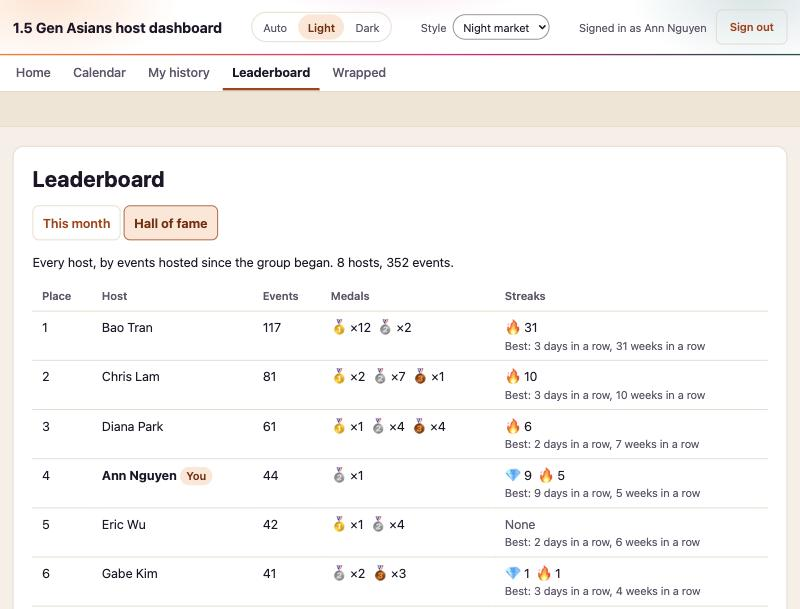
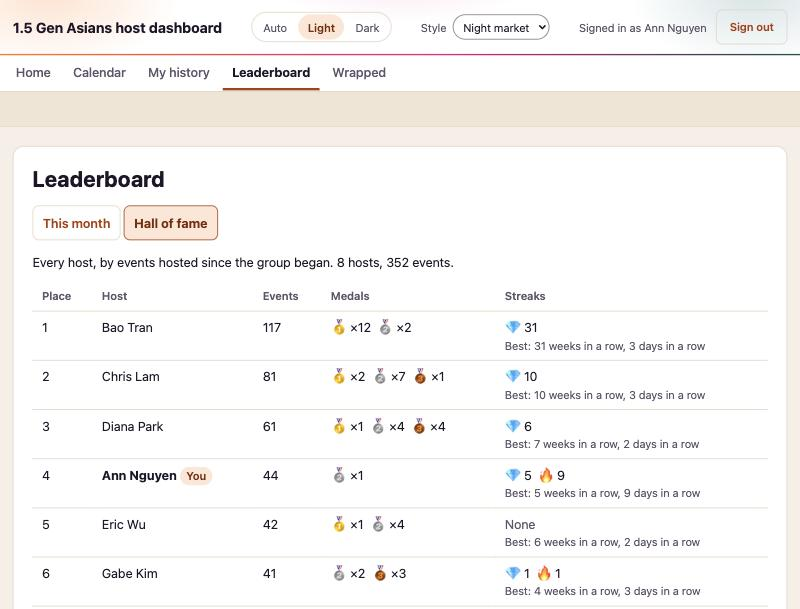
Leaderboard: 💎 weekly, 🔥 daily streaks; medals never slow or fail the page
- Hai's decision: the weekly streak is the prestige badge (💎) and comes
  first; the daily streak is 🔥. Design note, copy, order and tests updated.
- Awarding waits at most 2 s (the first read backfills every past month);
  past that it finishes in the background under its lock. A medal read
  failure renders the standings without medals and says so.

diff --git a/src/web/host/leaderboardPage.ts b/src/web/host/leaderboardPage.ts
@@ -60,26 +60,30 @@ export function medalBadge(place: MedalPlace, month?: string): SafeHtml {
   return emoji(MEDAL_ICON[place], label);
 }
 
-/** 💎 and 🔥 with counts, current streaks only; the best beside each. */
+/** Icons per Hai: weekly is the prestige streak (💎), daily is being on fire (🔥). */
+export const WEEKLY_STREAK_ICON = '💎';
+export const DAILY_STREAK_ICON = '🔥';
+
+/**
+ * Current streaks with their counts, weekly first (the more prestigious);
+ * a broken streak is left out.
+ */
 export function streakBadges(streaks: HostStreaks): SafeHtml {
   const { daily, weekly } = streaks;
   const parts: SafeHtml[] = [];
-  if (daily.current > 0) {
+  if (weekly.current > 0) {
+    const label = `Weekly hosting streak: ${plural(weekly.current, 'week')}`;
     parts.push(
       html`<span class="streak"
-        >${emoji('💎', `Daily hosting streak: ${plural(daily.current, 'day')}`)}
-        ${daily.current}</span
+        >${emoji(WEEKLY_STREAK_ICON, label)} ${weekly.current}</span
       >`,
     );
   }
-  if (weekly.current > 0) {
+  if (daily.current > 0) {
+    const label = `Daily hosting streak: ${plural(daily.current, 'day')}`;
     parts.push(
       html`<span class="streak"
-        >${emoji(
-          '🔥',
-          `Weekly hosting streak: ${plural(weekly.current, 'week')}`,
-        )}
-        ${weekly.current}</span
+        >${emoji(DAILY_STREAK_ICON, label)} ${daily.current}</span
       >`,
     );
   }
@@ -89,9 +93,9 @@ export function streakBadges(streaks: HostStreaks): SafeHtml {
 }
 
 function bestStreaks(streaks: HostStreaks): string {
-  return `Best: ${plural(streaks.daily.best, 'day')} in a row, ${plural(
-    streaks.weekly.best,
-    'week',
+  return `Best: ${plural(streaks.weekly.best, 'week')} in a row, ${plural(
+    streaks.daily.best,
+    'day',
   )} in a row`;
 }
 
@@ -152,6 +156,14 @@ function monthNav(month: string, first: string, current: string): SafeHtml {
   </nav>`;
 }
 
+function medalsNote(data: Ready): SafeHtml | '' {
+  return data.medalsUnavailable
+    ? html`<p class="note attn">
+        Medals cannot be loaded right now; the standings are complete.
+      </p>`
+    : '';
+}
+
 function updatedLine(data: Ready): SafeHtml {
   return data.updatedAt
     ? html`<p class="muted">
@@ -188,15 +200,17 @@ function monthBody(
   );
   const status = awarded
     ? html`<p>Final standings. Medals went to the top three places.</p>`
-    : month === current
-      ? html`<p>
-          Standings so far. Medals go to the top three places once the month is
-          over.
-        </p>`
-      : html`<p>
-          The month is over; medals are awarded a couple of days after it ends,
-          once late changes on Meetup are in.
-        </p>`;
+    : data.medalsUnavailable
+      ? html`<p>Standings for ${monthName(month)}.</p>`
+      : month === current
+        ? html`<p>
+            Standings so far. Medals go to the top three places once the month
+            is over.
+          </p>`
+        : html`<p>
+            The month is over; medals are awarded a couple of days after it
+            ends, once late changes on Meetup are in.
+          </p>`;
   const rows = standings.map((s) => {
     const medal = medalOf.get(s.memberId);
     const hostStreaks = streaks(s.memberId);
@@ -214,7 +228,8 @@ function monthBody(
   });
   return html`<div class="card">
     <h1>Leaderboard</h1>
-    ${viewNav('month', month)} ${monthNav(month, first, current)} ${status}
+    ${viewNav('month', month)} ${monthNav(month, first, current)}
+    ${medalsNote(data)} ${status}
     ${
       standings.length === 0
         ? html`<p class="muted">
@@ -246,9 +261,10 @@ function medalCell(awarded: boolean, content: SafeHtml | ''): SafeHtml | '' {
 
 function streakNote(): SafeHtml {
   return html`<p class="muted">
-    ${emoji('💎', 'Daily streak')} counts days in a row with a hosted event;
-    ${emoji('🔥', 'Weekly streak')} counts weeks in a row (Monday to Sunday). A
-    streak keeps going until a whole day or week passes without one.
+    ${emoji(WEEKLY_STREAK_ICON, 'Weekly streak')} counts weeks in a row (Monday
+    to Sunday) with a hosted event; ${emoji(DAILY_STREAK_ICON, 'Daily streak')}
+    counts days in a row. A streak keeps going until a whole week or day passes
+    without one.
   </p>`;
 }
 
@@ -299,7 +315,7 @@ function hallOfFameBody(
   });
   return html`<div class="card">
     <h1>Leaderboard</h1>
-    ${viewNav('all', data.today.slice(0, 7))}
+    ${viewNav('all', data.today.slice(0, 7))} ${medalsNote(data)}
     <p>
       Every host, by events hosted since the group began.
       ${`${plural(standings.length, 'host')}, ${plural(data.events.length, 'event')}.`}

diff --git a/src/lib/leaderboard/leaderboard.ts b/src/lib/leaderboard/leaderboard.ts
@@ -26,6 +26,49 @@ export interface LeaderboardDeps {
     lastFinishedRun(): Promise<SnapshotRun | undefined>;
   }>;
   now: () => Date;
+  /** Tests: how long a read waits for awarding (AWARD_BUDGET_MS). */
+  awardBudgetMs?: number;
+}
+
+/**
+ * The longest a page read waits for awarding (the first read backfills
+ * every past month). Past it the award finishes in the background, under
+ * its lock, and this read shows the medals stored so far.
+ */
+export const AWARD_BUDGET_MS = 2000;
+
+/** The awarded months; undefined (logged) when they cannot be read. */
+async function awardedOrNone(
+  store: LeaderboardStore,
+): Promise<Set<string> | undefined> {
+  try {
+    return await store.awardedMonths();
+  } catch (error: unknown) {
+    // Medals are extra: the page shows the standings without them.
+    logger.warn(
+      `Medal months read failed: ${error instanceof Error ? error.name : 'Error'}`,
+    );
+    return undefined;
+  }
+}
+
+/** Awards, waiting at most `budgetMs`; never throws. */
+async function awardWithin(
+  store: LeaderboardStore,
+  months: { month: string; medals: Medal[] }[],
+  budgetMs: number,
+): Promise<void> {
+  const award = store.award(months).catch((error: unknown) => {
+    logger.warn(
+      `Medal award failed: ${error instanceof Error ? error.name : 'Error'}`,
+    );
+  });
+  let timer: NodeJS.Timeout | undefined;
+  const late = new Promise<void>((resolve) => {
+    timer = setTimeout(resolve, budgetMs);
+  });
+  await Promise.race([award, late]);
+  clearTimeout(timer);
 }
 
 export type LeaderboardData =
@@ -39,13 +82,17 @@ export type LeaderboardData =
       names: Map<string, string>;
       medals: Medal[];
       awarded: Set<string>;
+      /** Medals could not be read: the page says so and shows none. */
+      medalsUnavailable: boolean;
       /** YYYY-MM-DD, Pacific. */
       today: string;
     };
 
 /**
- * Throws when the snapshot cannot be read. Awarding failing is logged and
- * the medals already stored are shown: the next read awards again.
+ * Throws when the snapshot cannot be read. Medals never fail or hold up the
+ * page: awarding waits at most AWARD_BUDGET_MS and a failure is logged (the
+ * next read awards again); medals that cannot be read leave the page
+ * without them.
  */
 export async function loadLeaderboard(
   deps: LeaderboardDeps,
@@ -59,36 +106,55 @@ export async function loadLeaderboard(
     snapshot.lastFinishedRun(),
     store.hostedEvents(),
     store.hostNames(),
-    store.awardedMonths(),
+    awardedOrNone(store),
   ]);
   const events = countedEvents(all);
-  const listedAt = run?.listedAt;
-  const due = listedAt ? monthsToAward(events, awarded, listedAt) : [];
-  if (due.length > 0) {
-    try {
-      await store.award(
-        due.map((month) => ({
-          month,
-          medals: medalsFor(month, rank(monthCounts(events, month))),
-        })),
-      );
-    } catch (error: unknown) {
-      logger.warn(
-        `Medal award failed: ${error instanceof Error ? error.name : 'Error'}`,
-      );
-    }
-  }
-  const [medals, nowAwarded] =
-    due.length > 0
-      ? await Promise.all([store.medals(), store.awardedMonths()])
-      : [await store.medals(), awarded];
-  return {
+  const page = (
+    m: Medal[],
+    months: Set<string>,
+  ): Extract<LeaderboardData, { ready: true }> => ({
     ready: true,
     updatedAt: run?.finishedAt,
     events,
     names,
-    medals,
-    awarded: nowAwarded,
+    medals: m,
+    awarded: months,
+    medalsUnavailable: false,
     today: pacificDayOf(deps.now()),
-  };
+  });
+  const withoutMedals = (): LeaderboardData => ({
+    ...page([], new Set()),
+    medalsUnavailable: true,
+  });
+  const listedAt = run?.listedAt;
+  if (awarded === undefined) {
+    return withoutMedals();
+  }
+  const due = listedAt ? monthsToAward(events, awarded, listedAt) : [];
+  if (due.length > 0) {
+    await awardWithin(
+      store,
+      due.map((month) => ({
+        month,
+        medals: medalsFor(month, rank(monthCounts(events, month))),
+      })),
+      deps.awardBudgetMs ?? AWARD_BUDGET_MS,
+    );
+  }
+  let medals: Medal[] = [];
+  let nowAwarded = awarded;
+  try {
+    // Months first, then medals: an award committing in between can only
+    // add medals for a month not yet shown as awarded, never the reverse.
+    if (due.length > 0) {
+      nowAwarded = await store.awardedMonths();
+    }
+    medals = await store.medals();
+  } catch (error: unknown) {
+    logger.warn(
+      `Medal read failed: ${error instanceof Error ? error.name : 'Error'}`,
+    );
+    return withoutMedals();
+  }
+  return page(medals, nowAwarded);
 }

diff --git a/tst/web/host/leaderboardPage.test.ts b/tst/web/host/leaderboardPage.test.ts
@@ -142,8 +142,15 @@ describe('host leaderboard', () => {
     expect(res.text).toContain('November 2026');
     expect(res.text).toContain('Standings so far');
     expect(res.text).toContain('<strong><bdi>Ann</bdi></strong>');
-    expect(res.text).toContain('Daily hosting streak: 3 days');
-    expect(res.text).toContain('Weekly hosting streak: 2 weeks');
+    // 💎 weekly first (the prestige streak), then 🔥 daily.
+    const weekly = res.text.search(
+      /aria-label="Weekly hosting streak: 2 weeks"[^>]*>\s*💎/,
+    );
+    const daily = res.text.search(
+      /aria-label="Daily hosting streak: 3 days"[^>]*>\s*🔥/,
+    );
+    expect(weekly).toBeGreaterThan(0);
+    expect(daily).toBeGreaterThan(weekly);
     expect(res.text).not.toContain('Gold medal, November');
     // Every closed month was awarded on the way, October's medals stored.
     expect(store.months).toEqual(new Set(['2026-10']));
@@ -191,7 +198,7 @@ describe('host leaderboard', () => {
     );
     expect(res.text).toContain('4 hosts, 9 events.');
     expect(res.text).toContain('1 gold medal');
-    expect(res.text).toContain('Best: 3 days in a row, 2 weeks in a row');
+    expect(res.text).toContain('Best: 2 weeks in a row, 3 days in a row');
   });
 
   it('an out-of-range month falls back to this month', () => {
@@ -230,6 +237,39 @@ describe('host leaderboard', () => {
       .set('Cookie', two.sid);
     expect(ok.status).toBe(200);
     expect(ok.text).not.toContain('Gold medal');
+  });
+
+  it('waits at most the award budget for a slow first backfill', async () => {
+    const store = fakeStore(EVENTS, NAMES);
+    let finish: () => void = () => {};
+    store.award = vi.fn(
+      () =>
+        new Promise<void>((resolve) => {
+          finish = resolve;
+        }),
+    );
+    const { req, sid } = await app(store, { awardBudgetMs: 20 });
+    const res = await req.get('/host/leaderboard').set('Cookie', sid);
+    expect(res.status).toBe(200);
+    expect(res.text).toContain('Standings so far');
+    finish();
+  });
+
+  it('shows the standings without medals when medals cannot be read', async () => {
+    for (const fail of ['awardedMonths', 'medals'] as const) {
+      const store = fakeStore(EVENTS, NAMES);
+      store[fail] = vi.fn().mockRejectedValue(new Error('db down'));
+      // eslint-disable-next-line no-await-in-loop -- two cases in turn
+      const { req, sid } = await app(store);
+      // eslint-disable-next-line no-await-in-loop
+      const res = await req
+        .get('/host/leaderboard?month=2026-10')
+        .set('Cookie', sid);
+      expect(res.status).toBe(200);
+      expect(res.text).toContain('Medals cannot be loaded right now');
+      expect(res.text).toContain('<bdi>Bea</bdi>');
+      expect(res.text).not.toContain('Gold medal');
+    }
   });
 
   it('is not shown to a member who never hosted', async () => {

diff --git a/docs/superpowers/specs/2026-11-18-host-leaderboard-design.md b/docs/superpowers/specs/2026-11-18-host-leaderboard-design.md
@@ -3,6 +3,7 @@
 Status: drafted 2026-11-18 from Hai's feedback recording of 2026-11-17 (items
 5 to 8) and his follow-up decisions relayed by the lead. Three PRs, each
 standing on its own. Choices the brief left open are marked _my call_.
+Streak icons follow Hai's later decision: 💎 weekly, 🔥 daily.
 
 ## Data source: the group snapshot only
 
@@ -42,7 +43,10 @@ one, it matches My history's co-host names, and it needs no Discord lookup.
   first read backfills history), in one transaction under an advisory lock:
   `host_medal_months (month PK, awarded_at)` and
   `host_medals (month, member_id, place 1..3, events, PRIMARY KEY (month, member_id))`,
-  guarded `CREATE TABLE IF NOT EXISTS` in `SCHEMA_SQL`. The current month
+  guarded `CREATE TABLE IF NOT EXISTS` in `SCHEMA_SQL`. The page waits at
+  most 2 s for awarding (it carries on in the background past that), and an
+  award or medal read failure renders the page without medals, never an
+  error. The current month
   shows "standings so far", no medals.
 
 ## Streaks (PR 1)
@@ -50,13 +54,15 @@ one, it matches My history's co-host names, and it needs no Discord lookup.
 Hosting days are the Pacific calendar days of the host's counted events;
 hosting weeks are Monday-first Pacific weeks (as the calendar).
 
-- 💎 **Daily streak:** the longest run of consecutive hosting days ending
-  today or yesterday. Today is not over and today's events are not PAST
-  yet, so a streak breaks only once a whole day passes with no hosting.
-- 🔥 **Weekly streak:** the same over weeks, ending this week or last week.
+- 💎 **Weekly streak** (the more prestigious badge, listed first): the
+  longest run of consecutive hosting weeks ending this week or last week.
+- 🔥 **Daily streak** ("on fire"): the longest run of consecutive hosting
+  days ending today or yesterday. Today is not over and today's events are
+  not PAST yet, so a streak breaks only once a whole day passes with no
+  hosting.
 - Shown as icon plus count whenever the current streak is 1 or more, with the
   host's best (longest ever) beside it. No threshold. Every emoji badge has a
-  text alternative (`<span role="img" aria-label="Daily hosting streak: 3 days">`).
+  text alternative (`<span role="img" aria-label="Weekly hosting streak: 3 weeks">`).
 
 ## Pages
 
